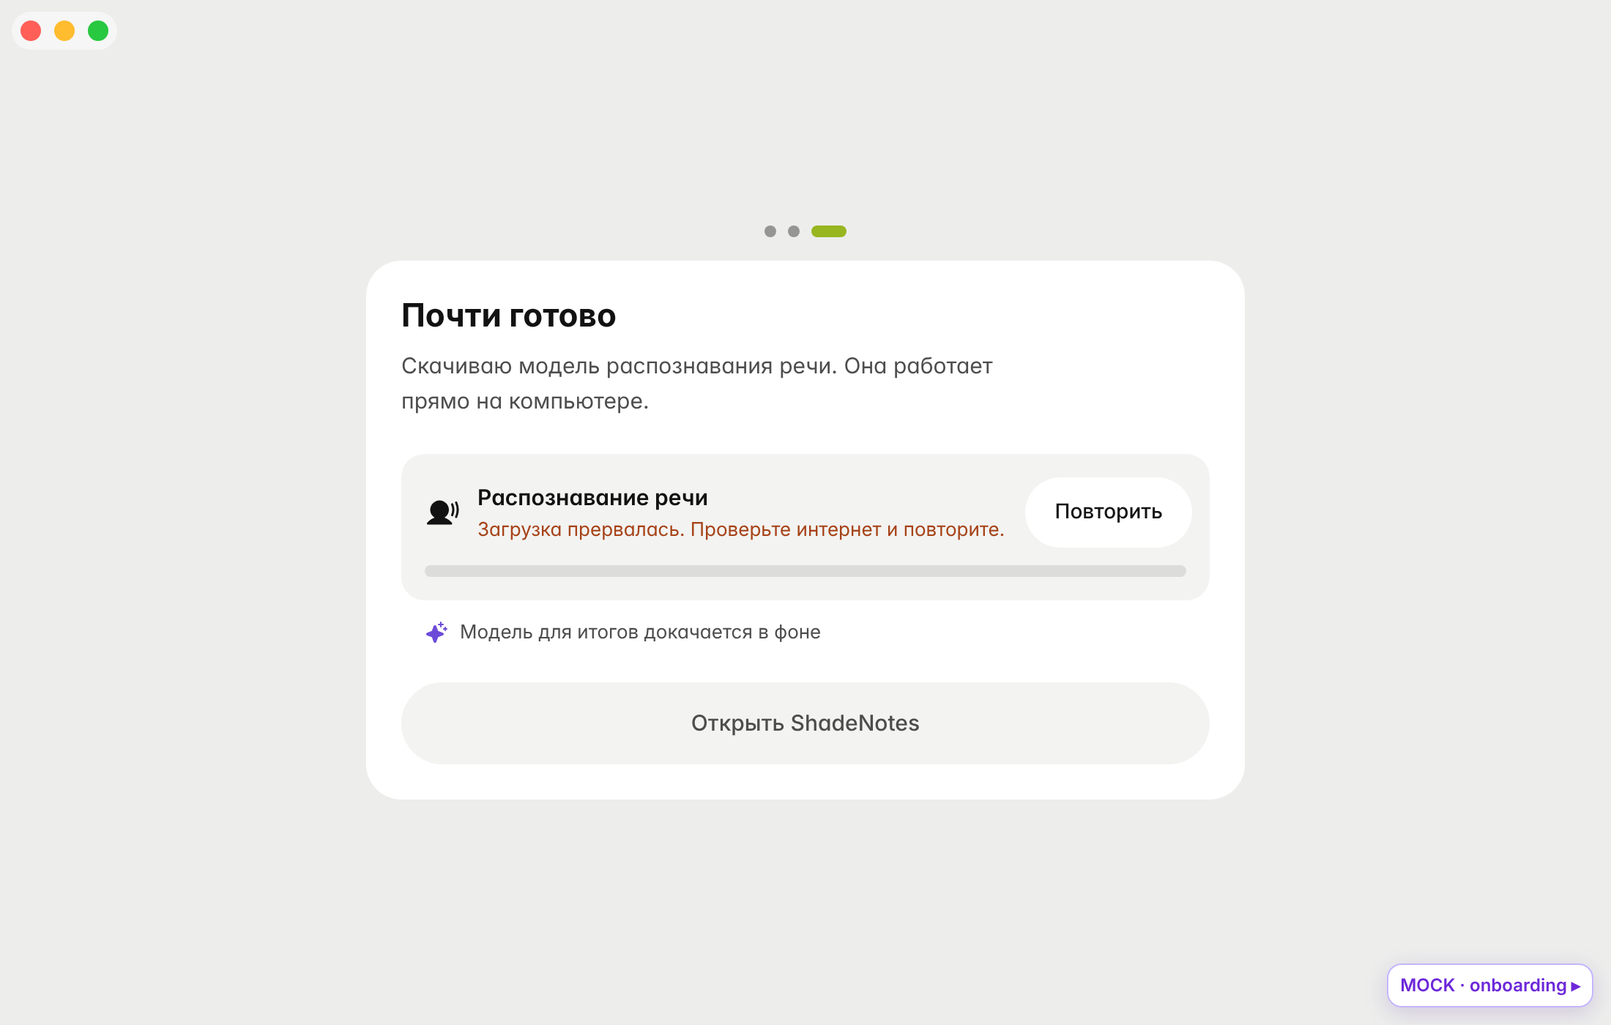
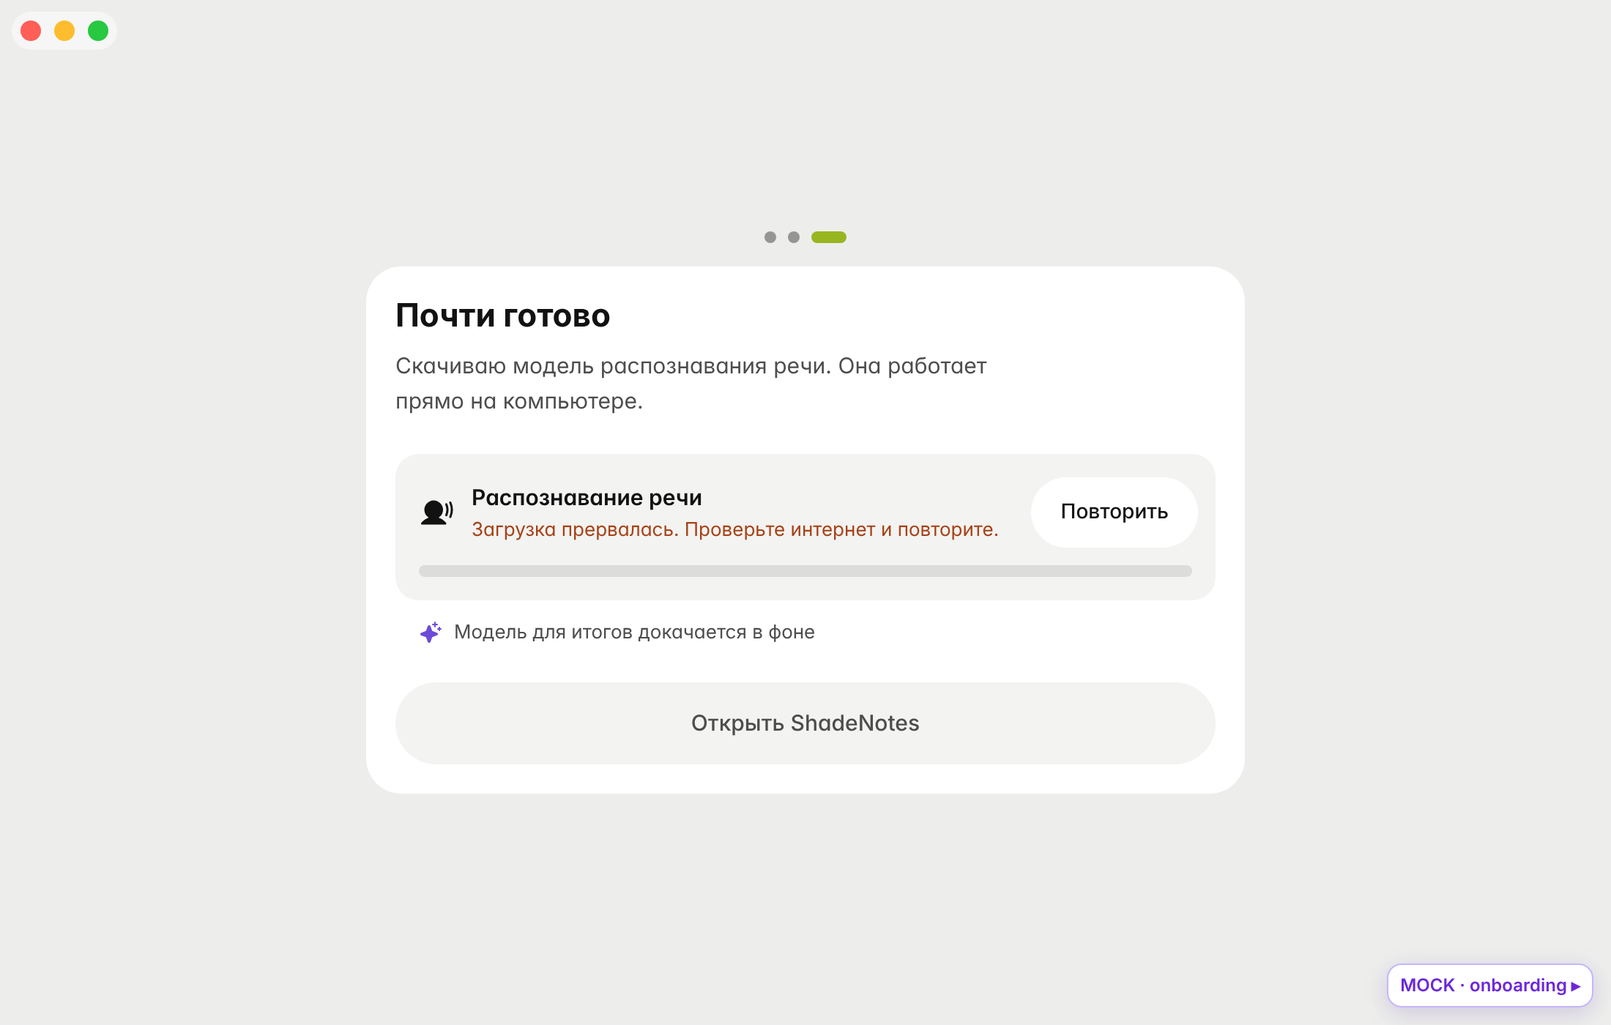
style(aid): первый запуск: внутренний отступ плитки и обложек снова 20 px
Как у всех плиток приложения (--tile-pad), чтобы плотность не менялась
при переходе в главную. Шкала отступов 8 / 12 / 16 / 20 / 24 / 32.

Claude-Session: https://claude.ai/code/session_01JzvomxkVSAKv3jjRMmSK11

diff --git a/frontend/src/aid/components/onboarding/HelloStep.tsx b/frontend/src/aid/components/onboarding/HelloStep.tsx
@@ -71,11 +71,11 @@ function useDemoSeconds() {
   return sec;
 }
 
-/** Обложка с показом. Отступ внутри как у плитки (24 px), группа по оптическому центру. */
+/** Обложка с показом. Отступ внутри как у плитки (20 px), группа по оптическому центру. */
 function DemoRecording() {
   const sec = useDemoSeconds();
   return (
-    <div aria-hidden className="flex h-[256px] items-center justify-center rounded-nested bg-muted p-6">
+    <div aria-hidden className="flex h-[256px] items-center justify-center rounded-nested bg-muted p-5">
       <div className="-mt-2 flex w-[72%] flex-col items-center gap-4">
         {/* Реплики, затем на их месте итоги */}
         <div className="relative h-[96px] w-full">

diff --git a/frontend/src/aid/components/onboarding/AccessStep.tsx b/frontend/src/aid/components/onboarding/AccessStep.tsx
@@ -80,7 +80,7 @@ type DemoState = 'loop' | 'granted' | 'still';
  */
 function DemoPrompt({ state }: { state: DemoState }) {
   return (
-    <div aria-hidden data-state={state} className="aid-ob-prompt relative flex h-[176px] items-center justify-center overflow-hidden rounded-nested bg-muted p-6">
+    <div aria-hidden data-state={state} className="aid-ob-prompt relative flex h-[176px] items-center justify-center overflow-hidden rounded-nested bg-muted p-5">
       <div className="aid-ob-prompt-card -mt-1 w-[288px] rounded-[16px] bg-card p-4 shadow-sm">
         <div className="flex items-start gap-3">
           {/* eslint-disable-next-line @next/next/no-img-element -- статическая выгрузка без оптимизатора изображений */}

diff --git a/frontend/src/aid/components/onboarding/AidOnboarding.tsx b/frontend/src/aid/components/onboarding/AidOnboarding.tsx
@@ -247,7 +247,7 @@ export function AidOnboarding({ onComplete }: { onComplete: () => void }) {
         <div data-tauri-drag-region className="flex min-h-0 flex-1 overflow-y-auto px-4 py-4">
           <div className={cn('m-auto w-full max-w-[600px]', exiting && 'aid-ob-exit')}>
             <StepDots count={steps.length} current={Math.max(0, steps.indexOf(step))} />
-            <section className="mt-4 rounded-tile bg-card p-6">
+            <section className="mt-4 rounded-tile bg-card p-5">
               <div key={step} className={leaving ? 'aid-ob-out' : 'aid-ob-in'}>
                 {step === 'hello' ? (
                   <HelloStep

diff --git a/CLAUDE.md b/CLAUDE.md
@@ -21,7 +21,7 @@
 - Каркас (`app/layout.tsx`): слева колонка 72 px: на macOS сверху подложка кнопок окна (`WindowBar`, таблетка 72 × 26 px, цвет между фоном окна и плитками `.aid-window-strip`, `data-tauri-drag-region`; кнопки окна в ней по центру, группа кнопок 60 × 14 pt, со всех сторон по 6 pt: `trafficLightPosition` x 14, y 23), ниже через 8 px сайдбар; колонка страницы справа во всю высоту окна, полосы во всю ширину нет. Подложка видна с классом `aid-titlebar-overlay` (Tauri на macOS, в браузере на заглушках с нарисованными кнопками). Слева сайдбар 72 px отдельной плиткой (`AidSidebar`): сверху логотип ShadeNotes 48 px, как кнопки сайдбара (по 12 px от краёв и сверху, радиус 12 концентрично сайдбару), ведёт к списку встреч (пункта «Встречи» нет, вкладка одна), внизу «Настройки», приватность и переключатель темы таблеткой. Справа контент страницы (`Page`): шапка липкая, при прокрутке становится стеклом; область прокрутки обрезана по радиусу плитки (`.aid-round-clip`), плитки у краёв окна уходят под скругление, а не обрываются. Внизу по центру поверх контента плавает запись (`RecordDock`), снизу у контента запас `--dock-space`, только если контент до капсулы доходит (`data-fits` в `Page`): иначе прокрутки нет. Полоса прокрутки тонкая (бегунок 4 px), видна при прокрутке и наведении, начинается под шапкой и не заходит в скругления. Встреча и настройки открываются на главной (`/?id=…` и `/?view=settings&tab=…` через `history.pushState`, `lib/open-meeting.ts`), без перехода между страницами: в окне Tauri на macOS переход зависал (кнопка «Настройки» казалась ненажимающейся). Переходы на `/meeting-details` и `/settings` переводит на место `lib/in-place-router.tsx`. Новый экран мягко проявляется (`.aid-page-in` в `Page`, 0,24 с). Окно стартует скрытым (`"visible": false` в `tauri.conf.json`) и показывается из `src/aid/lib/window-boot.ts` сразу после разметки заставки (`LaunchScreen`), с фоном темы: без белой вспышки при запуске.
 - Запись (`RecordDock`): в покое круглая кнопка лайм 88 px на 28 px от низа (`--dock-space` 136 px) с микрофоном и двумя мягкими волнами, сочетание ⌘⇧R в подсказке. Во время записи стеклянная капсула: красная точка с кольцом на речь, таймер, полосы речи (по сегментам детектора речи: уровня звука ядро не отдаёт), круглая «Пауза» 56 px и красная «Остановить». «Не слышу речи» стеклянной карточкой над капсулой. После стопа итог карточкой на том же месте (`NoticeCard`): плотное стекло, радиус плитки, знак в круге 44 px слева (у «Не распознано» Giants, у остальных нейтральный), две короткие строки, справа «Проверить звук» текстом и крестик; появляется из размытия, уходит плавно (`.aid-dock-out`, 0,28 с) (в разработке: `?notice=unrecognized|no-speech|too-little`). Смена состояний появляется из размытия.
 - Логотип ShadeNotes: чёрный силуэт с белыми глазами и лаймовой искрой на лаймовой плитке (`public/brand/shadenotes.svg` и `shadenotes.png`, тот же рисунок в иконке приложения `src-tauri/icons`). Статичный, без эмоций и анимаций: в сайдбаре 48 px (`BrandMark.tsx`) и на заставке запуска. Лайм логотипа и есть акцент интерфейса (`--primary`). Иконку приложения не менять без просьбы.
-- Первый запуск (`components/onboarding/AidOnboarding.tsx`, показывает `app/layout.tsx` при `NEXT_PUBLIC_UI=aid`; оригинальный мастер для `original`): минималистично, одна плитка до 600 px по центру на фоне окна (внутри 24 px, отступы по шкале 8 / 12 / 16 / 24 / 32, заголовок шага 22/28 кирпичиком: balance, колонка около 30 символов; описания pretty, до 52 символов; «ShadeNotes» и предлоги не отрываются, неразрывный пробел в строках), сверху точки шага, подложка кнопок окна на месте; каждый шаг помещается в окно 1100 × 700. Шаги: 1) обложка с живым показом работы (`HelloStep`, цикл 6 с: кнопка «Записать» становится капсулой с таймером, реплики по очереди через 150 мс, их сменяют итоги Indigo, итоговый кадр стоит 1,7 с и гаснет; реплики и капсула одной группой по оптическому центру, около 65 % обложки), логотип, одна строка «Нажмите «Записать», остальное сделает ShadeNotes» и «Начать»; загрузка моделей стартует уже здесь; 2) «Доступ к звуку» (`AccessStep`, только macOS): обложка с показом запроса macOS (стилизованное окно, указатель подходит сбоку по кривой и нажимает «Разрешить»; при доступе стоит «Доступ есть», при отказе стоит окно без указателя), карточки «Микрофон» (обязателен) и «Звук с компьютера», «Продолжить» (неактивная нейтральная, лайм только у активной) и тихая «Позже»; 3) «Почти готово» (`ReadyStep`): прогресс модели распознавания, пропускается, если она скачана. Доступ: `useAccessChecks` («Открыть настройки» с `preferencePane`, при возврате фокуса перепроверка, неизменившийся ответ нейтрально «Проверим при первой записи»). Логика из `useOnboarding()` оригинала. У вызовов ядра предел 8 с (`lib/onboarding.ts`), потом «Продолжить всё равно». В конце без `window.location.reload()`: `completeOnboarding()`, затем `onComplete`, layout заново монтирует провайдеры через `key`, приложение проявляется (`.aid-app-enter`). Смена шагов размытием и сдвигом (`.aid-ob-*`), при `prefers-reduced-motion` без движения, показы стоят на итоговом кадре. Полоски в показе украшение, а не уровень звука.
+- Первый запуск (`components/onboarding/AidOnboarding.tsx`, показывает `app/layout.tsx` при `NEXT_PUBLIC_UI=aid`; оригинальный мастер для `original`): минималистично, одна плитка до 600 px по центру на фоне окна (внутри 20 px, как у всех плиток, отступы по шкале 8 / 12 / 16 / 20 / 24 / 32, заголовок шага 22/28 кирпичиком: balance, колонка около 30 символов; описания pretty, до 52 символов; «ShadeNotes» и предлоги не отрываются, неразрывный пробел в строках), сверху точки шага, подложка кнопок окна на месте; каждый шаг помещается в окно 1100 × 700. Шаги: 1) обложка с живым показом работы (`HelloStep`, цикл 6 с: кнопка «Записать» становится капсулой с таймером, реплики по очереди через 150 мс, их сменяют итоги Indigo, итоговый кадр стоит 1,7 с и гаснет; реплики и капсула одной группой по оптическому центру, около 65 % обложки), логотип, одна строка «Нажмите «Записать», остальное сделает ShadeNotes» и «Начать»; загрузка моделей стартует уже здесь; 2) «Доступ к звуку» (`AccessStep`, только macOS): обложка с показом запроса macOS (стилизованное окно, указатель подходит сбоку по кривой и нажимает «Разрешить»; при доступе стоит «Доступ есть», при отказе стоит окно без указателя), карточки «Микрофон» (обязателен) и «Звук с компьютера», «Продолжить» (неактивная нейтральная, лайм только у активной) и тихая «Позже»; 3) «Почти готово» (`ReadyStep`): прогресс модели распознавания, пропускается, если она скачана. Доступ: `useAccessChecks` («Открыть настройки» с `preferencePane`, при возврате фокуса перепроверка, неизменившийся ответ нейтрально «Проверим при первой записи»). Логика из `useOnboarding()` оригинала. У вызовов ядра предел 8 с (`lib/onboarding.ts`), потом «Продолжить всё равно». В конце без `window.location.reload()`: `completeOnboarding()`, затем `onComplete`, layout заново монтирует провайдеры через `key`, приложение проявляется (`.aid-app-enter`). Смена шагов размытием и сдвигом (`.aid-ob-*`), при `prefers-reduced-motion` без движения, показы стоят на итоговом кадре. Полоски в показе украшение, а не уровень звука.
 - Главная одной плиткой, как в Я.Музыке (`Page`, раскладка tile): шапка («Встречи» 36/40 и серая подпись, справа круглые кнопки 56 px поиска с лупой и импорта аудио, ниже чипы-фильтры Все, С итогами, Не распознано, Корзина; поле поиска выезжает влево отдельной таблеткой до 280 px, кнопка остаётся на месте, и лупа в ней поворотом превращается в крестик «Закрыть поиск»; чипы остаются; Esc и крестик сворачивают и очищают, пустое поле сворачивается при потере фокуса; обводка фокуса внутри поля) липкая; при прокрутке список уходит под неё: шапка стеклом без рамки, нижний край растворяется полосой 28 px (`.aid-edge-fade`, scroll edge effect Liquid Glass), без линии. Ниже список, строки без вложенных карточек с миниатюрой состояния 48 px; от 1100 px ширины списка две колонки (`@container`). Встреча: плитка-шапка («Назад», действия таблетками, название 36/40, мета подписью и значением), плитка итогов Indigo свёрнута в полосу-заголовок, плитка транскрипта; без текста плитка Giants «Речь не распознана» с действиями. Настройки: шапка с вкладками, разделы плитками с заголовком 22/28, управление справа в колонке 200 px.
 - Логику записи и данных не дублировать: брать хуки и контексты оригинала (`useRecordingStart`, `useRecordingStop`, `TranscriptContext`).
 - Переключатель интерфейса: `NEXT_PUBLIC_UI=aid` (по умолчанию) или `original` в `frontend/.env.local`.
